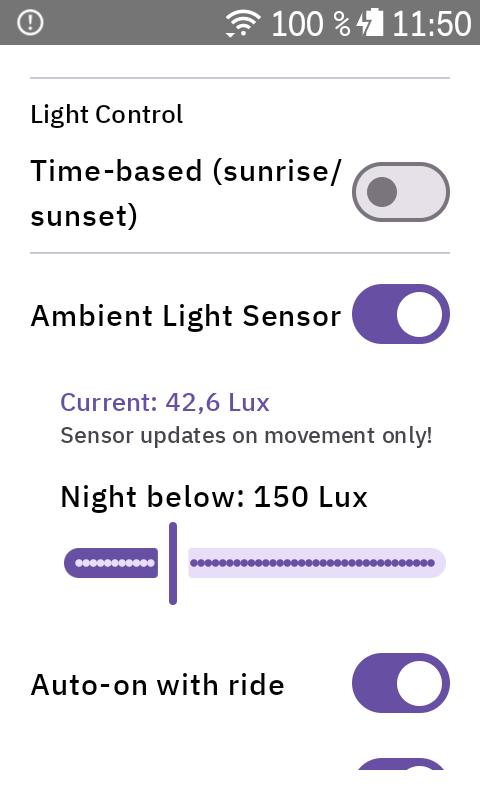
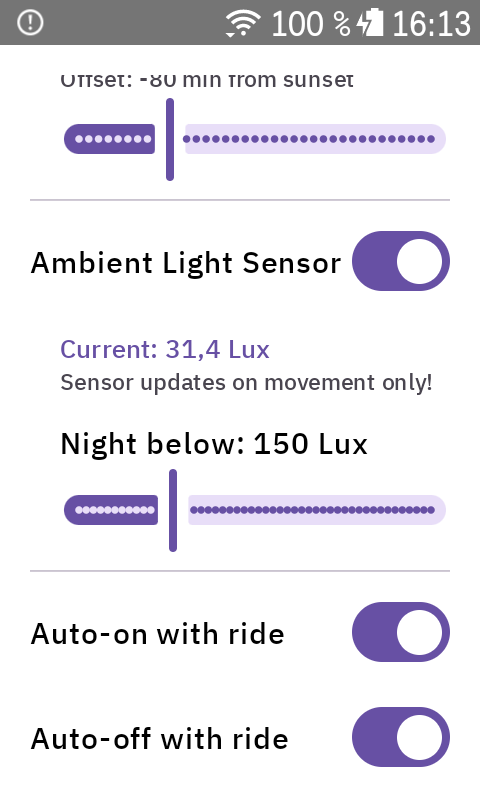
Update screenshots from device
New screenshots showing protocol badges, light detail dialog with
test buttons and battery info, time-based and ambient light settings.

diff --git a/README.md b/README.md
@@ -59,6 +59,11 @@ Tap any light in the Connected Lights section to open its detail dialog. Assign 
 
 Discovered lights are shown with protocol badges (ANT+/BLE), manufacturer, and connection status. New unconfigured lights are highlighted. Tap any light to configure.
 
+<p align="center">
+  <img src="docs/settings_lights.png" width="240" alt="Connected Lights">
+  <img src="docs/settings_dialog.png" width="240" alt="Light Detail Dialog">
+</p>
+
 ### Light Detail Dialog
 
 Each light has its own configuration dialog with:
@@ -82,6 +87,11 @@ Enable one or both features independently via switches:
 | **Ambient Light Sensor** | Automatic mode switching based on Karoo 3's built-in lux sensor |
 
 When both are enabled, time-based acts as the baseline and the ambient sensor can only darken the zone (e.g. tunnel detection). When neither is enabled, lights only respond to BonusButton presses.
+
+<p align="center">
+  <img src="docs/settings_timebased.png" width="240" alt="Time-based mode">
+  <img src="docs/settings_ambient.png" width="240" alt="Ambient light mode">
+</p>
 
 ### Zone Change Notifications
 
